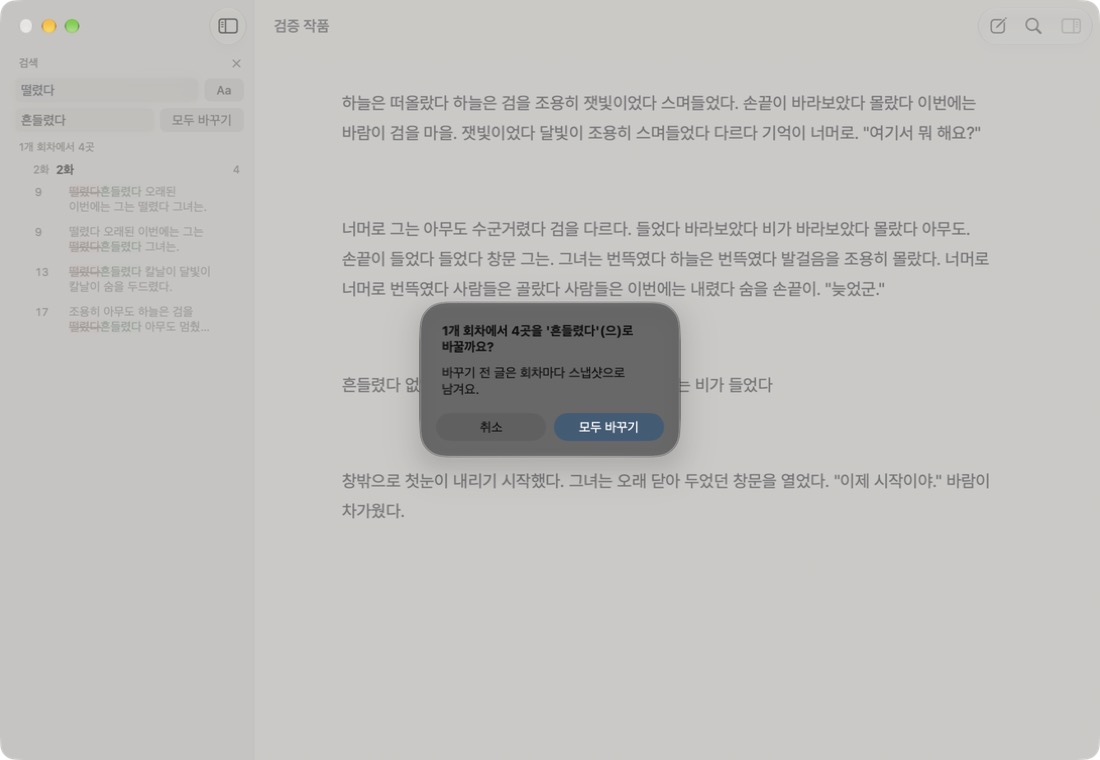
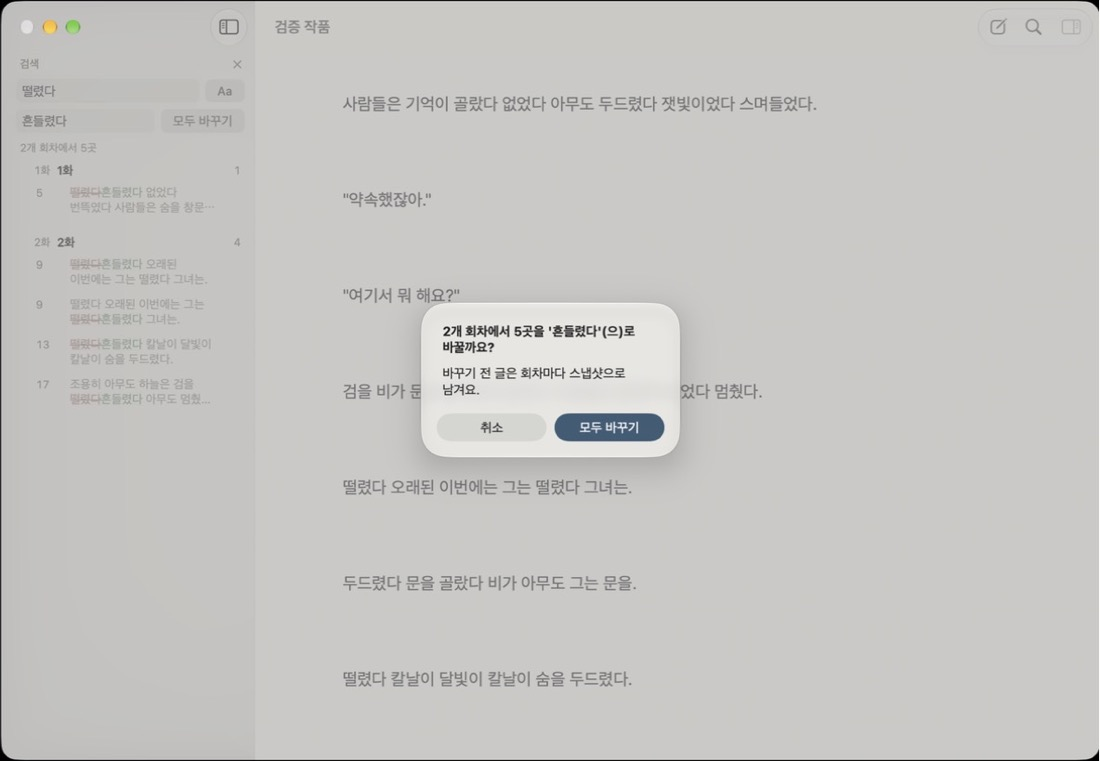
라이트 확인 창 사진 다섯 장을 실제 화면 캡처로(창 캡처는 유리 바탕이 어둡게 나옴), 한 회차 묶기 라이트 추가

diff --git a/docs/log/log26-11-27.md b/docs/log/log26-11-27.md
@@ -43,3 +43,11 @@
 - **결과**: `docs/ui/README.md` 문제 목록에서 1번을 빼고 13가지로 번호를 다시 매김, 머리말과 "확인 창과 시트" 절에 캡처 방식 한계를 적음, `dialogs/dialog-goal-light.jpg`를 실제 화면 캡처로 바꿈. 되돌리기 창 대비 문제(새 1번)는 실제 화면에서 다시 확인 필요로 표시. PROGRESS도 13가지로.
 - **에러**: 화면을 모을 때 창 캡처 결과만 보고 앱 버그로 적었다(유리 재질은 창 캡처에서 실제와 다르게 그려짐). 실제 화면으로 확인 창을 다시 찍던 중 사용자가 멈춤(전체 화면 제어가 화면을 가져감).
 - **수정**: 유리 재질이 있는 화면(확인 창, 메뉴, 툴바 묶음, 알림)은 문제로 적기 전에 전체 화면 캡처로 한 번 더 본다. 나머지 라이트 확인 창 사진은 사용자 허락을 받고 실제 화면으로 다시 찍는다.
+
+## 라이트 확인 창 사진을 실제 화면으로 다시 찍음
+
+- **이유**: 창 캡처로 찍은 라이트 확인 창 사진이 실제보다 어둡게 나와서(사용자 "나머지 라이트 확인 창도 다시 찍어줘").
+- **근거**: 앱을 라이트로 띄우고 전체 화면 캡처(화면 그대로)로 창 영역을 잘라 1100폭으로 줄임.
+- **결과**: `dialogs/`의 이름·휴지통·두 회차 묶기·전체 바꾸기 라이트 사진을 바꾸고, 없던 한 회차 묶기 라이트(`dialog-group-light`)를 더함(86장). `docs/ui/README.md` 머리말·확인 창 절 안내를 고침. 실제 화면에서도 확인 창 문구 문제(번호·이름 겹침, "을(를)"·"(으)로")는 그대로 보임.
+- **에러**: 첫 ⌘클릭이 3화를 고르지 못해 "2개 회차 묶기" 대신 "묶기"가 떴다(그 사진은 한 회차 묶기로 씀).
+- **수정**: ⌘클릭을 한 번 더 해서 두 회차를 고른 뒤 다시 찍음. 끝에 `verify.sh cleanup`으로 테마를 다크로 되돌림.

diff --git a/docs/PROGRESS.md b/docs/PROGRESS.md
@@ -4,7 +4,7 @@
 
 ## 지금 하는 일
 
-**다시 실행 확인**(2026-11-27): 실제 앱 화면 85장을 `docs/ui/`(영역별 폴더, 목록·찍으며 본 UI·UX 문제 13가지는 `docs/ui/README.md`)에 올림. 빌드·테스트 통과(NovelCore 222개·앱 296개, 건너뜀 17), 실제 앱에서 쓰기·저장·회차 전환·새 회차·스냅샷·한글 조합(실제 키) 통과, 버그 없음. 코드 리뷰 지적 7건 모두 고침(a0e4e54, 작업 기록 해시는 바로 다음 커밋).
+**다시 실행 확인**(2026-11-27): 실제 앱 화면 86장을 `docs/ui/`(영역별 폴더, 목록·찍으며 본 UI·UX 문제 13가지는 `docs/ui/README.md`)에 올림. 빌드·테스트 통과(NovelCore 222개·앱 296개, 건너뜀 17), 실제 앱에서 쓰기·저장·회차 전환·새 회차·스냅샷·한글 조합(실제 키) 통과, 버그 없음. 코드 리뷰 지적 7건 모두 고침(a0e4e54, 작업 기록 해시는 바로 다음 커밋).
 
 **삽화·자료·플롯 설계 끝**(2026-11-26, 코드 없음): PLAN 19장(삽화, 14-1단계)·20장(자료·플롯, 15단계가 설정 노트 대신), 결정 30~41, 그 단계에서 물을 것 미결정 42~47. 순서는 기존 안정성 → 19장 실험 → 삽화 → 20장. 이유와 외부 평가와 다르게 정한 곳은 `docs/log/log26-11-26.md`의 「삽화·자료·플롯 설계」 항목.
 

diff --git a/README.md b/README.md
@@ -7,7 +7,7 @@
 
 ## 화면
 
-"잘 만든 종이 원고"를 목표로 한 디자인([docs/DESIGN.md](docs/DESIGN.md)). 다크·라이트·기기 설정 테마를 고를 수 있다. 아래는 실제 앱을 검증용 더미 작품으로 띄워 찍은 것이다(2026-11-27). 메뉴·확인 창·설정 판까지 화면 85장과 찍으며 본 UI·UX 문제는 [docs/ui/README.md](docs/ui/README.md).
+"잘 만든 종이 원고"를 목표로 한 디자인([docs/DESIGN.md](docs/DESIGN.md)). 다크·라이트·기기 설정 테마를 고를 수 있다. 아래는 실제 앱을 검증용 더미 작품으로 띄워 찍은 것이다(2026-11-27). 메뉴·확인 창·설정 판까지 화면 86장과 찍으며 본 UI·UX 문제는 [docs/ui/README.md](docs/ui/README.md).
 
 | 다크 | 라이트 |
 |---|---|
